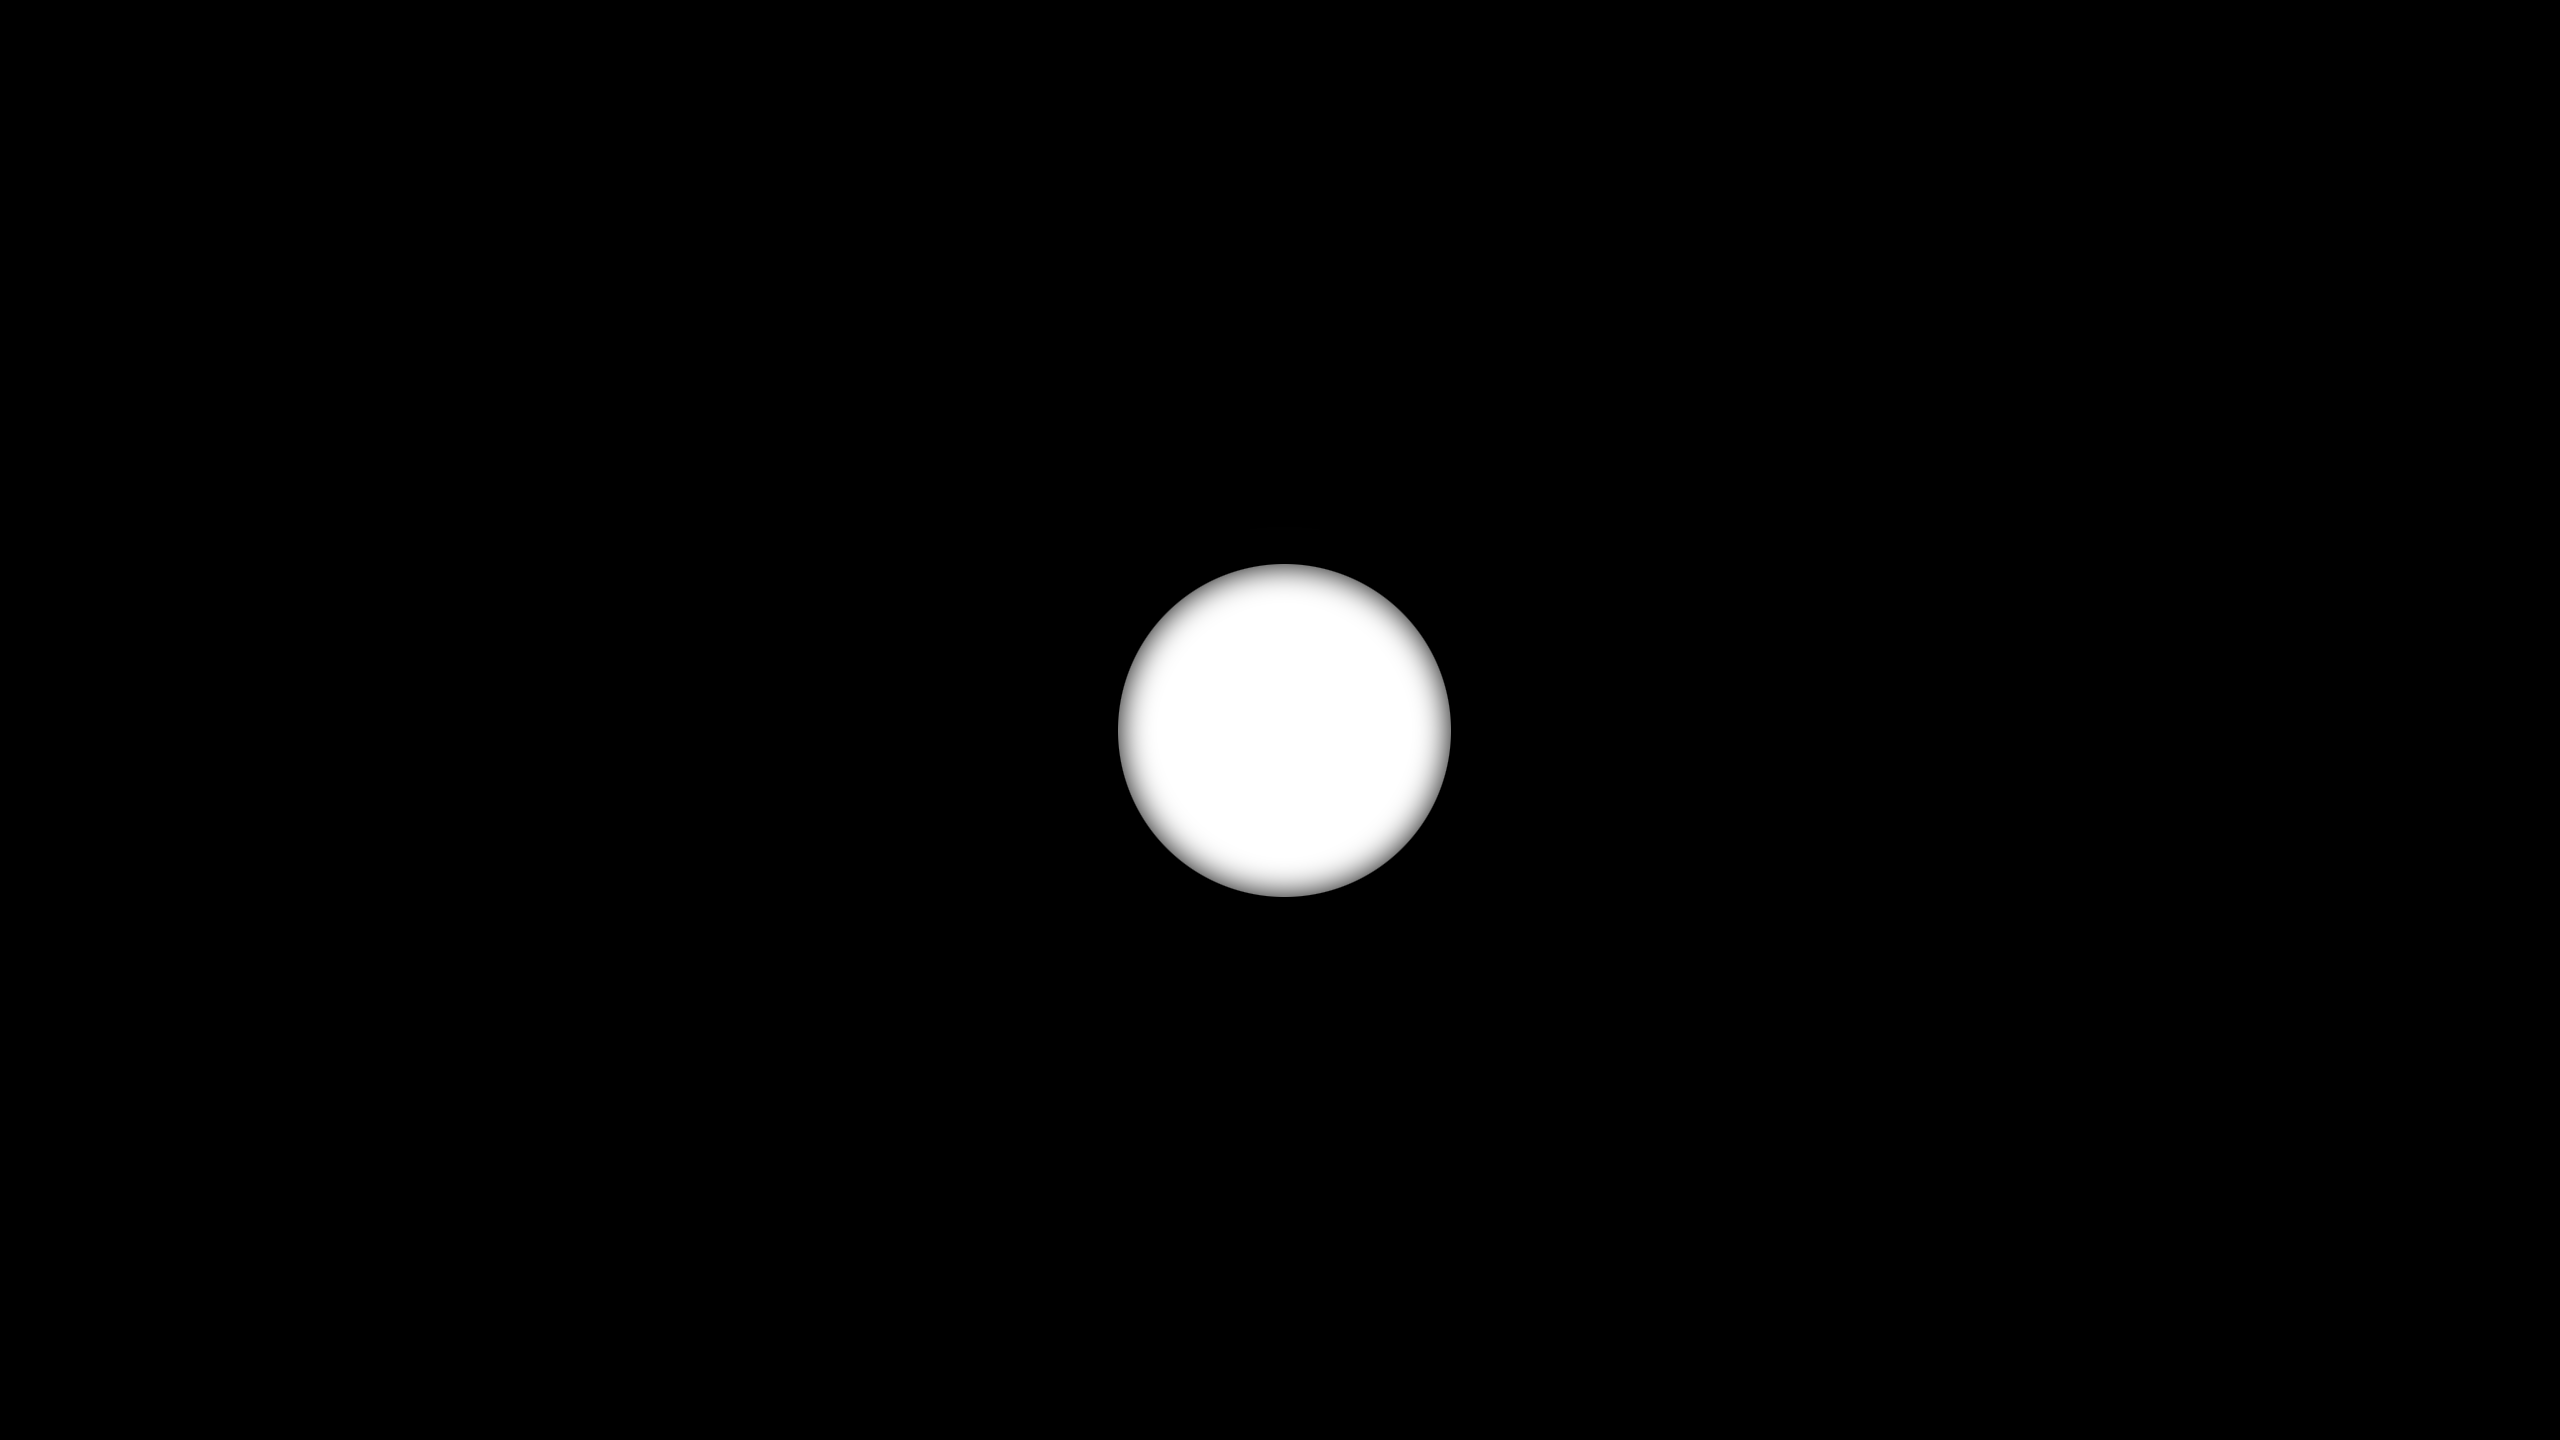
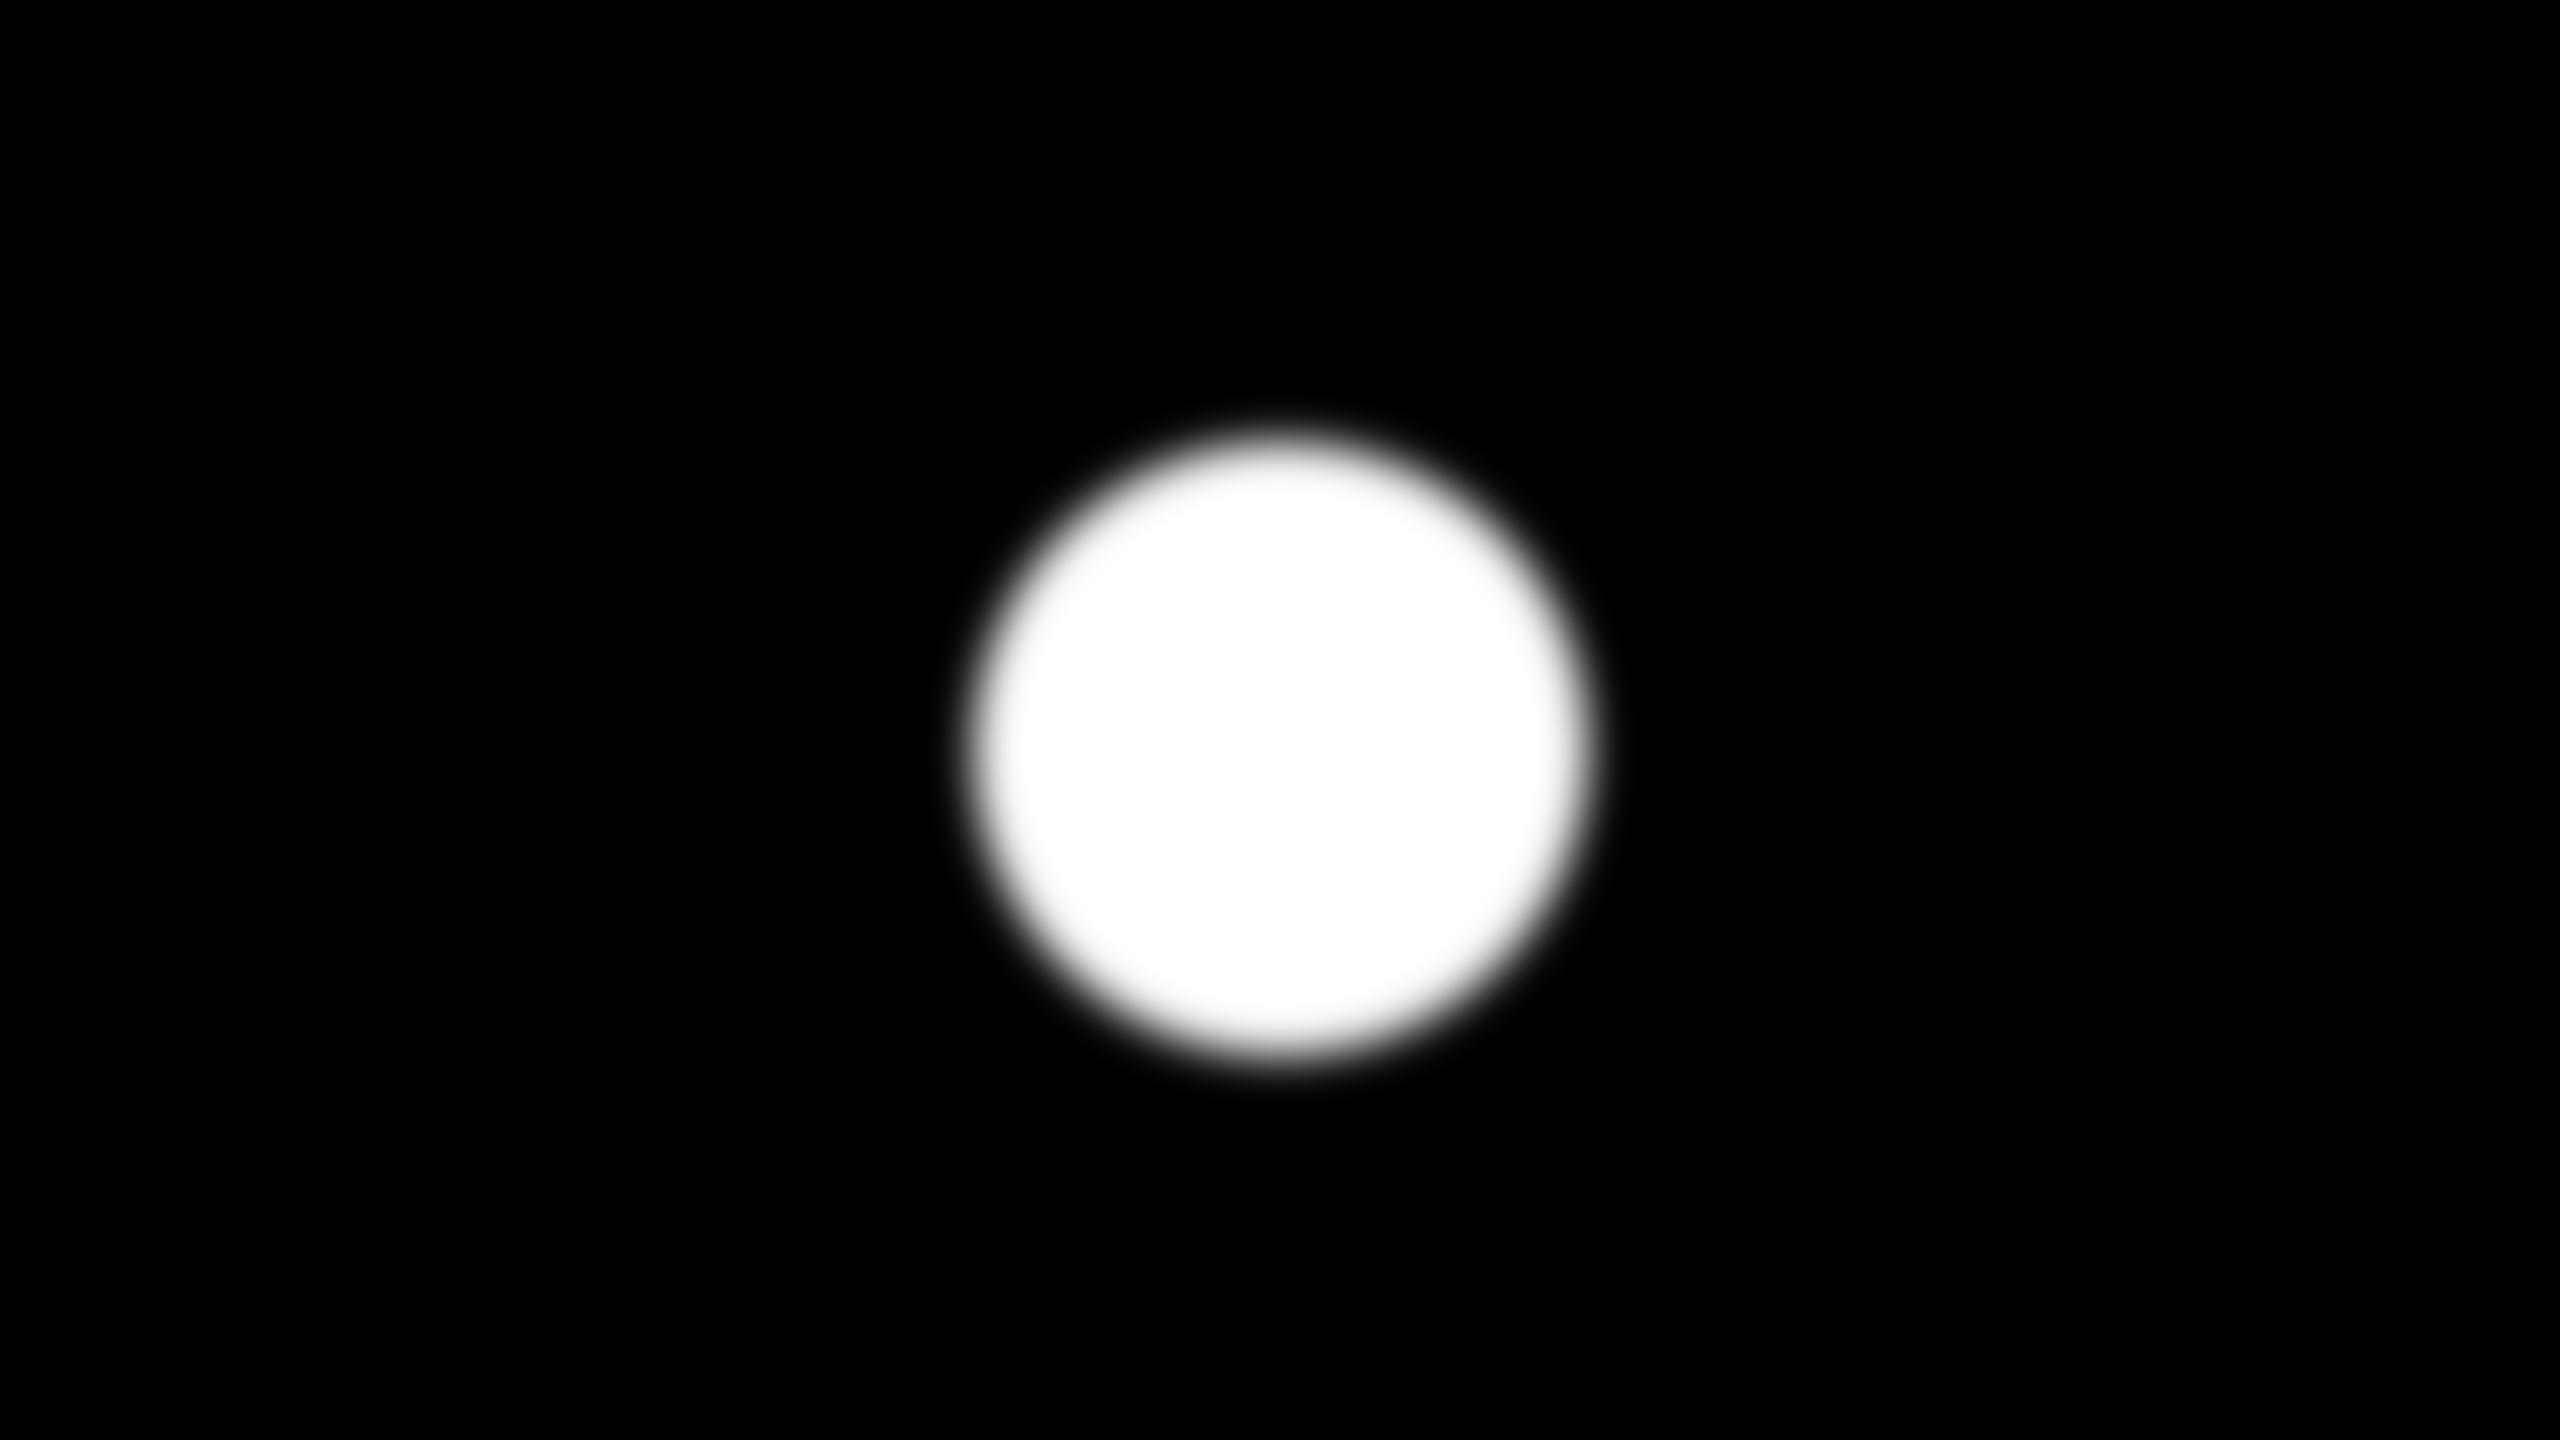
시야제한 이벤트 크기 수정

Changed region(s): [[0.3438, 0.2812, 0.6562, 0.75]]

diff --git a/oneTrillion/src/project_04/GameScreenPanel.java b/oneTrillion/src/project_04/GameScreenPanel.java
@@ -263,7 +263,7 @@ public class GameScreenPanel extends JPanel implements Runnable {
 					ball.setBallOutside(false);
 					// Circle과 Ball의 반지름을 줄여서 안쪽을 돌게 한다.
 					ball.setRotateRadius(ball.getRotateRadius() - 25);
-					eventTimer.schedule(innerCircleEvent, 100);
+					eventTimer.schedule(innerCircleEvent, 200);
 					// Ball이 안쪽을 돌고 있다면 isBallOutside가 false값이므로 else문을 실행한다.
 				} else {
 					eventTimer = new Timer();
@@ -545,9 +545,8 @@ public class GameScreenPanel extends JPanel implements Runnable {
 		} else if(isOutsideCircleEvent) {
 			g2.drawImage(outsideCircleEventImage, 0, 0, null);
 		}
-		// 게임 시야를 가리는 이미지
-		// g2.drawImage(gameSightLimitImage, ball.getX() - 1280 , ball.getY() - 720 ,
-		// null);
+		
+		g2.drawImage(gameSightLimitImage, ball.getX() - 1280 , ball.getY() - 720 ,null);
 	}
 
 	/**
